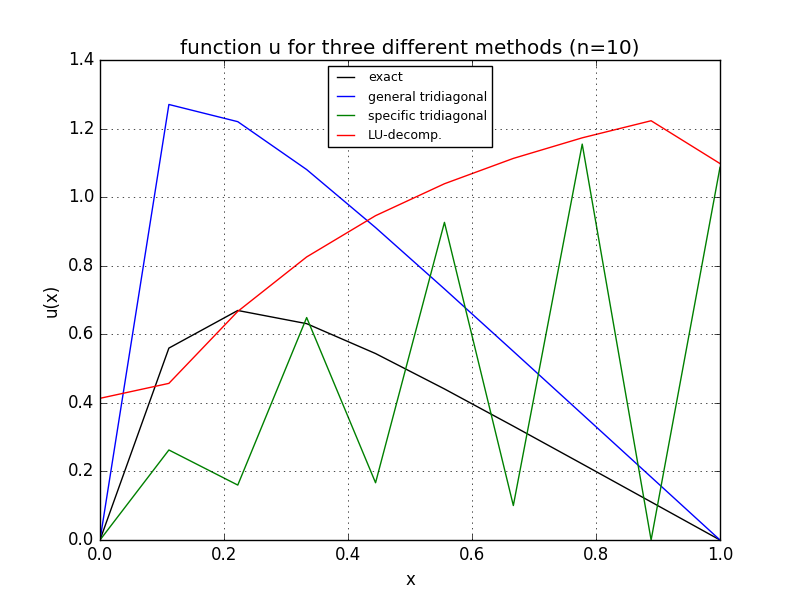
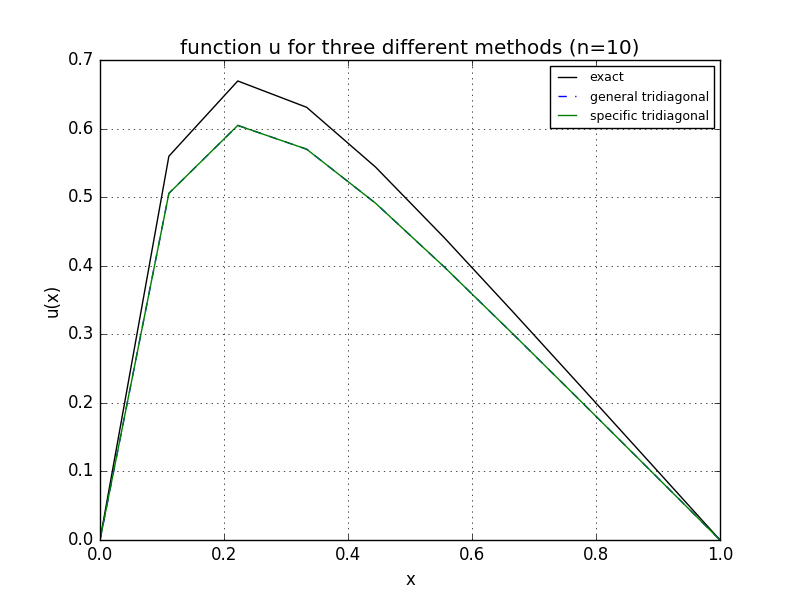
debugged both specific and general triidag with TA-Morten

diff --git a/main.cpp b/main.cpp
@@ -15,8 +15,7 @@ double LU_decomp(vec &arg_y, int n);
 int main(int argc, char *argv[]){
     cout << "Armadillo version: "
 	 << arma_version::as_string()
-	 << endl;
-    /* int version = atoi(argv[1]) */;
+     << endl;
     //find cmd-line args
     int n; bool LU;
     if (argc == 1){
@@ -53,16 +52,17 @@ int main(int argc, char *argv[]){
     //generate x,f,y -vectors
     double x0 = 0.0;
     double x1 = 1.0;
-    double h = (x1 - x0)/(n+1.0);
+    double h = (x1 - x0)/(n-1.0);
     vec x = linspace<vec>(x0,x1,n);
     vec y1 = zeros<vec>(n); // y = h^2 * f = h^2*100*e^(-10*x)
+    vec y2 = zeros<vec>(n);
     y1 = h*h*100.0*exp(-10.0*x);
-    vec y2 = y1; //need to arrays since they will be overridden
+    y2 = h*h*100.0*exp(-10.0*x); //need to arrays since they will be overridden
 
     //generate diagonal vector elements and matrix
-    vec a = ones<vec>(n-1); a *= -1.0;
+    vec a = ones<vec>(n); a *= -1.0;
     vec b = ones<vec>(n); b *= 2.0;
-    vec c = ones<vec>(n-1); c *= -1.0;
+    vec c = ones<vec>(n); c *= -1.0;
 
     //generate vectors for u
     vec u_gen = zeros<vec>(n);
@@ -118,12 +118,12 @@ double general_tridiag(vec &arg_a, vec &arg_b, vec &arg_c, vec &arg_u, vec &arg_
     clock_t t0, t1;
 
     t0 = clock();
-    for (int i=0; i<arg_n-1; i++){
-        k = arg_a(i)/( (double) arg_b(i) );
+    for (int i=1; i<=arg_n-3; i++){
+        k = arg_a(i+1)/( (double) arg_b(i) );
         arg_b(i+1) -= k*arg_c(i);
         arg_y(i+1) -= k*arg_y(i);
     }
-    for (int i=arg_n-2; i>0; i--){
+    for (int i=arg_n-2; i>=1; i--){
         arg_u(i) = (arg_y(i) - arg_u(i+1)*arg_c(i))/( (double) arg_b(i) );
     }
     t1 = clock();
@@ -131,17 +131,20 @@ double general_tridiag(vec &arg_a, vec &arg_b, vec &arg_c, vec &arg_u, vec &arg_
     return (t1 - t0)/((double) CLOCKS_PER_SEC); //measure time of forward and backward substitution
 }
 
-double specific_tridiag(vec &arg_u, vec &arg_y, int arg_r){
+double specific_tridiag(vec &arg_u, vec &arg_y, int arg_n){
     clock_t t0,t1;
-    vec d = zeros<vec>(arg_r);
+    vec d = zeros<vec>(arg_n);
 
     t0 = clock();
-    for (int i=1; i<=arg_r-1; i++){
-        d(i-1) = (i+1)/( (double) i );
-        arg_y(i) -= arg_y(i-1)/d(i-1);
+    for (int i=1; i<=arg_n-1; i++){
+        d(i) = (i+1)/( (double) i );
     }
 
-    for (int i=arg_r-2; i>=1; i--){
+    for (int i=2; i<=arg_n-2; i++){
+        arg_y(i) += arg_y(i-1)/d(i-1);
+    }
+
+    for (int i=arg_n-2; i>=1; i--){
         arg_u(i) = (arg_y(i) + arg_u(i+1))/d(i);
     }
     t1 = clock();

diff --git a/plot_stuff.py b/plot_stuff.py
@@ -4,7 +4,7 @@ import sys
 
 curdir = os.getcwd()
 data_dict = {} #dictionary of files
-n_range = [10,100,1000, 10000]
+n_range = [10,50,80, 100, 500, 800, 1000, 5000, 10000]
 
 for n in n_range:
     #loop through different n's
@@ -95,7 +95,7 @@ def compare_methods(n):
     pyl.title("function u for three different methods (n=%d)"%n)
 
     pyl.plot(x, exact, 'k-', label="exact")
-    pyl.plot(x, gen, 'b-', label="general tridiagonal")
+    pyl.plot(x, gen, 'b--', label="general tridiagonal")
     pyl.plot(x, spec, 'g-', label="specific tridiagonal")
     pyl.legend(loc='best', prop={'size':9})
     pyl.savefig(curdir+"/img/compare_methods_n%d.png"%n)
@@ -158,7 +158,7 @@ def epsilon_plots(n_range=[10,100,1000]):
     pyl.savefig(curdir+"/img/epsilon.png")
 
 #make plots
-compare_methods(n=1000)
+compare_methods(n=10)
 #compare_approx_n(approx_string="general")
 #compare_approx_n(approx_string="specific")
 pyl.show()

diff --git a/make_data.py b/make_data.py
@@ -1,0 +1,19 @@
+import os
+import sys
+
+cmdarg = False
+try:
+    cmdarg = sys.argv[1]
+except:
+    None
+
+if cmdarg == "new_time":
+    #delete time-datafile and start a new
+    None
+
+#run LU-decomposition for log10(n) = 1,2,3
+#run tridiag methods for n = 10, 50, 80, 100, 500, 800, 1000, 5000, 10000
+
+
+
+
